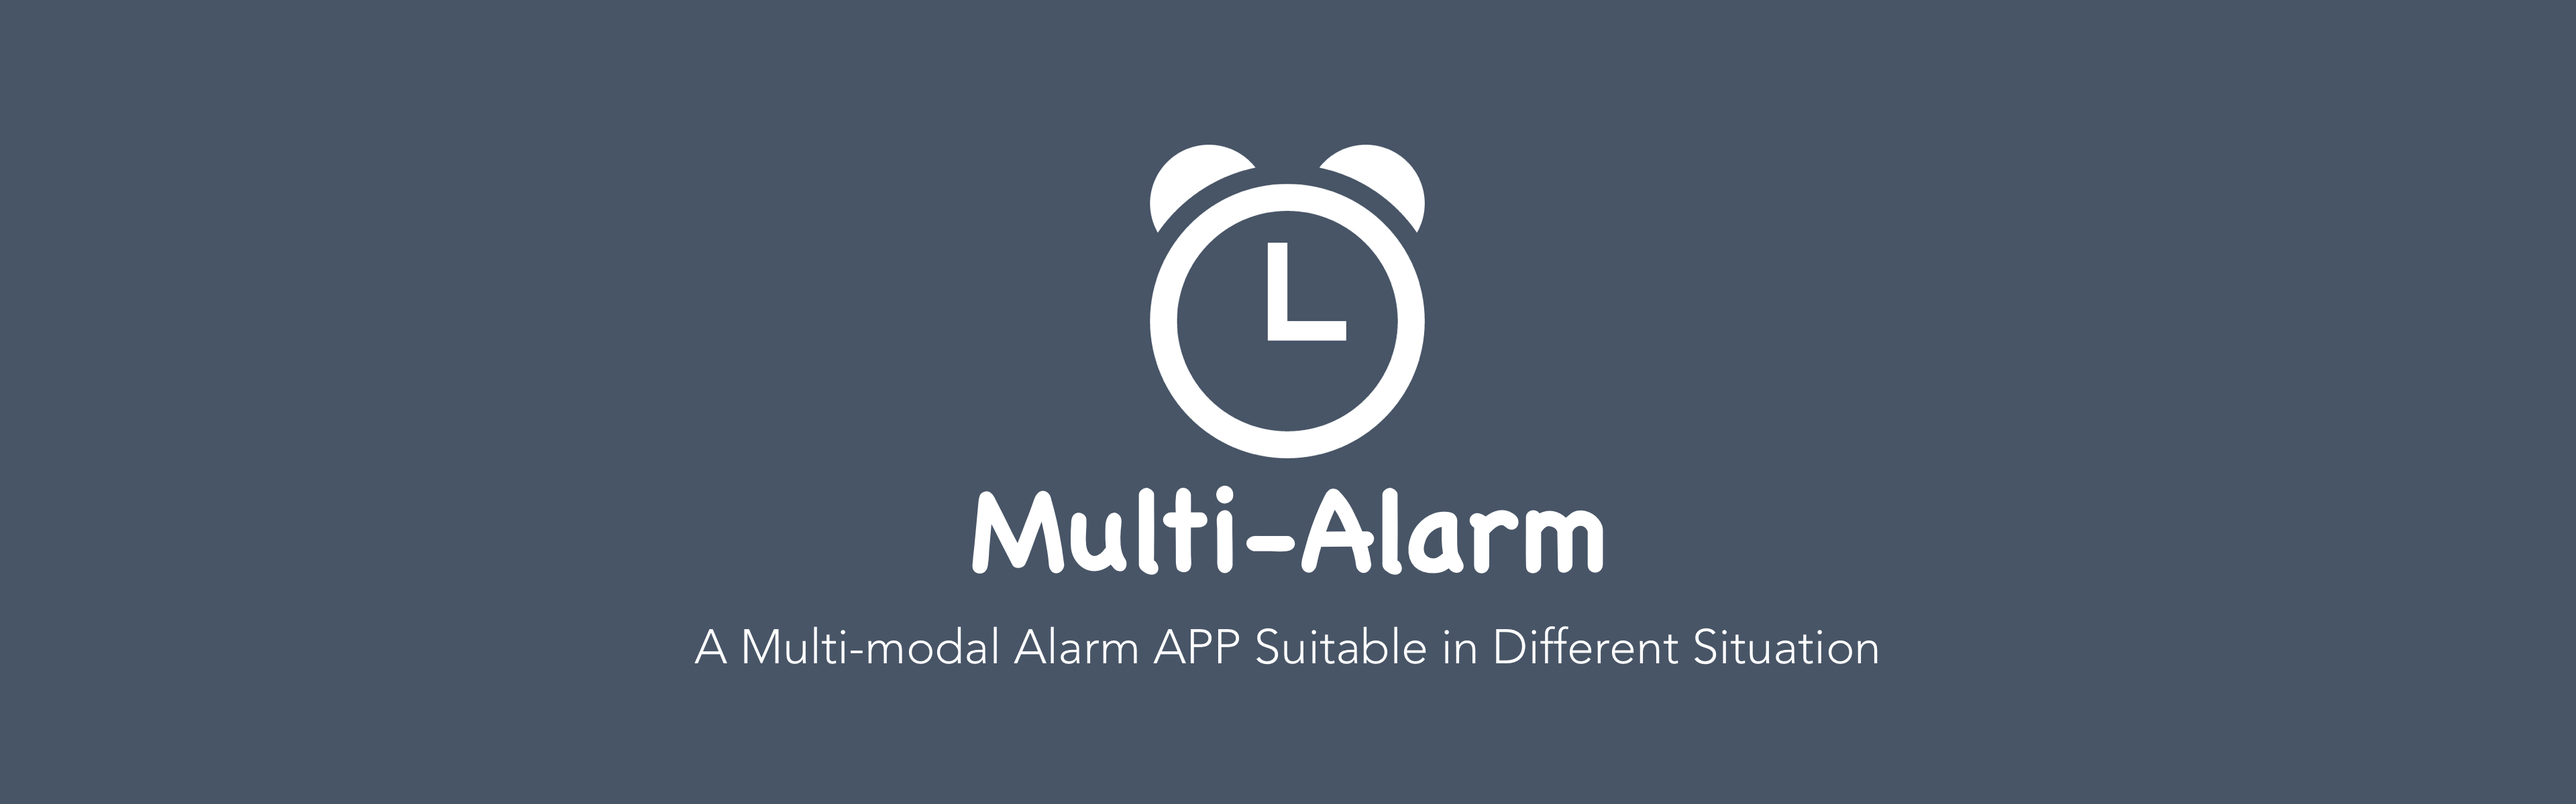
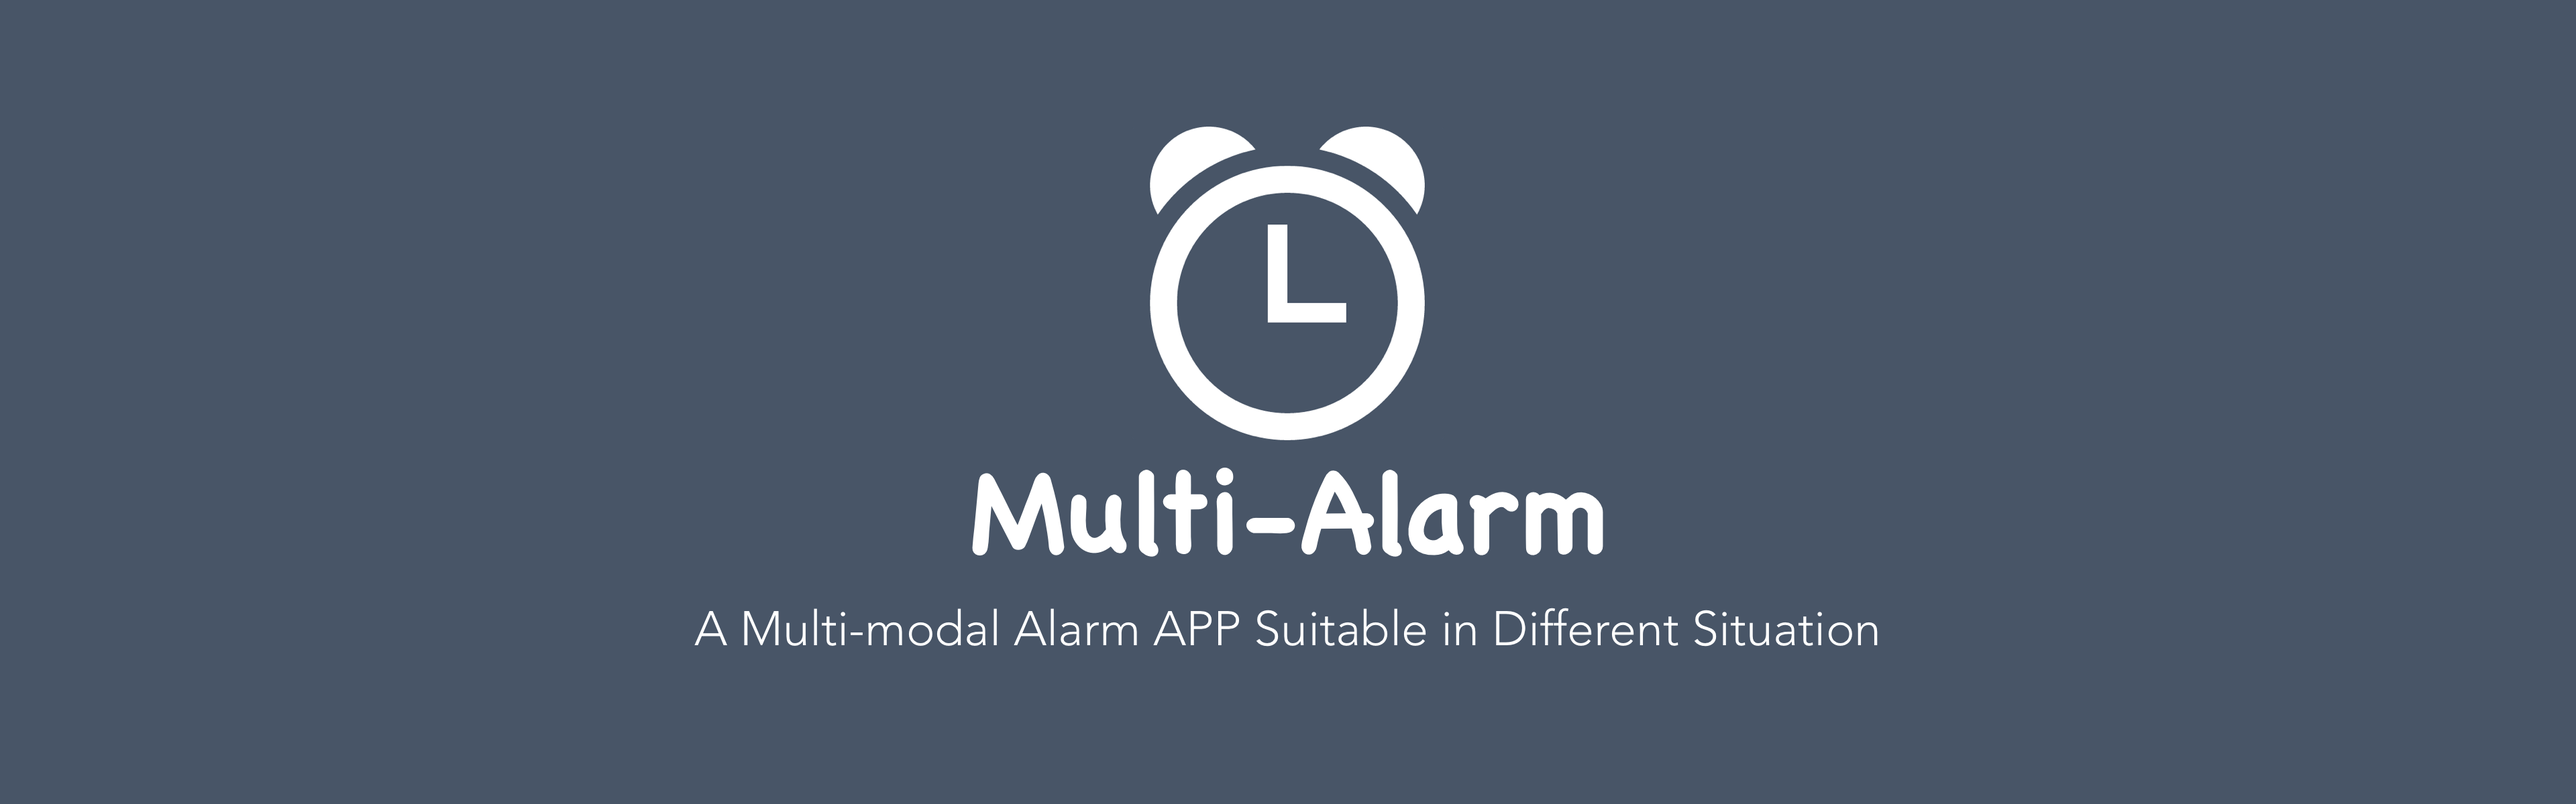
portfolio header code change

Changed region(s): [[0.375, 0.37, 0.625, 0.7092], [0.25, 0.74, 0.75, 0.8325], [0.4375, 0.1542, 0.5625, 0.37]]

diff --git a/portfolio/transmetics.html b/portfolio/transmetics.html
@@ -15,7 +15,7 @@
 	<body>
 
 		<!-- Header -->
-		<header class="portfolio_header" style="background-image:url('../images/trans_bg.png'); background-size:100% 100%;">
+		<header class="portfolio_header" style="background-image:url('../images/trans_bg.png'); background-color:#4DA693 ">
 			<div class="header_content">
 				<!-- <h1>Transmetics</h1>
 		    	<p>Android APP for helping foreigners buy suitable cosmetics in France</p> 

diff --git a/portfolio/multialarm.html b/portfolio/multialarm.html
@@ -16,9 +16,8 @@
 	<body id="top">
 
 		<!-- Header -->
-			<header class="portfolio_header" style="background-image:url('../images/multialarm/bg.png'); background-size:100%;">
-			<div class="header_content">
-				
+			<header class="portfolio_header" style="background-image:url('../images/multialarm/bg.png'); background-color:#485567">
+			<div class="text-center" >
 			</div>
 		    
 		</header>

diff --git a/portfolio/psalarm.html b/portfolio/psalarm.html
@@ -16,8 +16,9 @@
 	<body id="top">
 
 		<!-- Header -->
-			<header class="portfolio_header"style="background-image:url('../images/psalarm/bg.png'); background-size:100%;">
-			<div class="header_content">
+			<header class="portfolio_header" style="background-image:url('../images/psalarm/bg.png'); background-color:#00A1A7">
+			<div class="text-center">
+				
 			</div>
 		    
 		</header>

diff --git a/portfolio/bingoelder.html b/portfolio/bingoelder.html
@@ -17,7 +17,7 @@
 <body id="top">
 
 		<!-- Header -->
-			<header class="portfolio_header" style="background-image:url('../images/bingoelder/bg.png'); background-size:100%;">
+			<header class="portfolio_header" style="background-image:url('../images/bingoelder/bg.png'); background-color:#00BFA5">
 				<div class="header_content">
 	
 				</div>

diff --git a/portfolio/ourmemory.html b/portfolio/ourmemory.html
@@ -16,7 +16,7 @@
 	<body id="top">
 
 		<!-- Header -->
-		<header class="portfolio_header" style="background-image:url('../images/ourmemory/bg.png'); background-size:100%;">
+		<header class="portfolio_header" style="background-image:url('../images/ourmemory/bg.png'); background-color:#132234">
 			<div class="header_content">
 			</div>
 		    

diff --git a/portfolio/bonbound.html b/portfolio/bonbound.html
@@ -16,7 +16,7 @@
 	<body id="top">
 
 		<!-- Header -->
-			<header class="portfolio_header" style="background-image:url('../images/bonbound/bg.png'); background-size:100%;">
+			<header class="portfolio_header" style="background-image:url('../images/bonbound/bg.png'); background-color:#EC1461">
 				<div class="header_content" >
 					
 	

diff --git a/portfolio/ghostman.html b/portfolio/ghostman.html
@@ -16,7 +16,7 @@
 	<body id="top">
 
 		<!-- Header -->
-			<header class="portfolio_header" style="background-image:url('../images/ghostman/bg.png'); background-size:100%;">
+			<header class="portfolio_header" style="background-image:url('../images/ghostman/bg.png'); background-color:#CA806E">
 			<div class="header_content">
 				
 	

diff --git a/portfolio/myobeats.html b/portfolio/myobeats.html
@@ -16,7 +16,7 @@
 	<body id="top">
 
 		<!-- Header -->
-			<header class="portfolio_header" style="background-image:url('../images/myobeats/bg.png'); background-size:100%;">
+			<header class="portfolio_header" style="background-image:url('../images/myobeats/bg.png'); background-color:#61a4b7">
 			<div class="header_content">
 				
 	

diff --git a/css/highlengstyle.css b/css/highlengstyle.css
@@ -21,7 +21,9 @@
 	padding-top:10px;
  	padding-bottom:0px;
  	margin-bottom:0px;
- 	background-color: #4C4C4C;
+ 	background-position:center;
+ 	background-repeat:no-repeat;
+ 	background-size:100%;
  	/*
  	background-image: url('../images/bg.jpg');*/
  	height: 400px;
